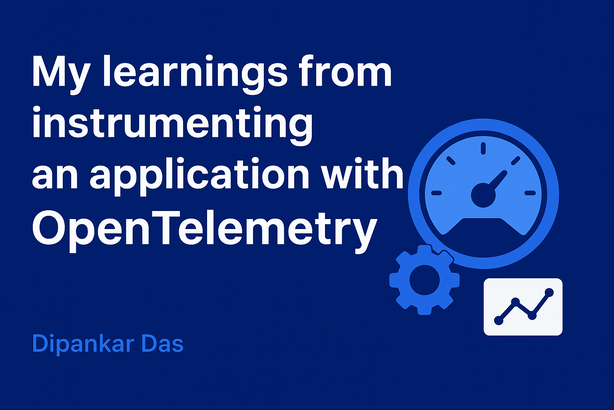
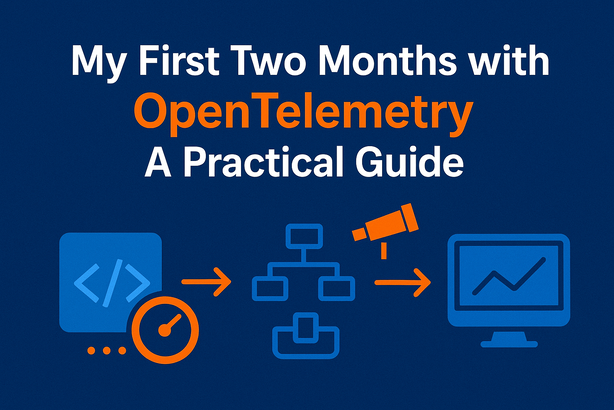
improved the blog post of otel

diff --git a/content/posts/blogs/otel.md b/content/posts/blogs/otel.md
@@ -1,8 +1,8 @@
 +++
-title = "My learnings from instrumenting an application with OpenTelemetry"
+title = "My First Two Months with OpenTelemetry: A Practical Guide"
 author = "Dipankar Das"
 date = 2025-11-07
-description = "It give guidelines and advice on why when and how to use OpenTelemetry to instrument your projects."
+description = "A developer's practical guide to instrumenting applications with OpenTelemetry, sharing key learnings on spans, context propagation, and sampling."
 cover = "img/blogs/otel-cover.png"
 tags = ["go", "otel", "troubleshooting", "debugging", "grafana", "prometheus"]
 [build]
@@ -10,124 +10,201 @@ tags = ["go", "otel", "troubleshooting", "debugging", "grafana", "prometheus"]
   render = 'always'
 +++
 
-## What exactly is OpenTelemetry?
+"Why is this request so slow?" "Where did the error originate?" "What's the actual path of a user request through our microservices?" If you've ever found yourself debugging a complex or distributed system, these questions are probably all too familiar. For the past two months, I've been diving deep into OpenTelemetry (OTEL), and it has fundamentally changed how I answer them.
 
-OpenTelemetry (often abbreviated as OTEL) is an open-source observability framework that provides a set of tools, APIs, and SDKs for collecting, processing, and exporting telemetry data from applications and services.
+This post isn't just a theoretical overview; it's a collection of my practical learnings and takeaways from instrumenting a real-world application. I'll cover the why, what, and how of using OpenTelemetry, so you can avoid some of the hurdles I encountered.
 
-It changes how we monitor our application with Observability data like Traces, Metrics and Logs (3 core pillars of observability) to help developers and operators understand the performance and behavior of their software systems.
+## Why Bother? The Payoff of Good Instrumentation
+Before we get into the technical details, let's talk about the motivation. What do you actually get in return for the effort of instrumenting your application? The answer is **clarity**.
 
-It has 2 main components which you need to take note of:
-1. Programming APIs and SDKs: OpenTelemetry provides language-specific APIs and SDKs (like Go, Java, Python, etc.) that developers can use to instrument their applications. These SDKs allow you to create and manage telemetry data, such as traces and metrics.
-2. Collectors and Exporters: OpenTelemetry includes a collector component that can receive telemetry data from instrumented applications. The collector can process and export this data to various backends, such as Promtheus, Jaeger, Tempo, Loki, etc.
+When your application is properly instrumented with traces, metrics, and logs, you can build powerful dashboards in tools like Grafana. This gives you a unified view of your system's health and behavior.
 
-the the collector is the main component in this as it manages the event comming from various instrumented applications perform some processing on them and export them to the desired backend. Thats it by this we get a unified way to collect and export telemetry data from different applications and services. only otel sdk is needed to be installed in the application and a single grpc/http endpoint to connect and you are ready to go. and all the main storage part is handled by the upstream backends like prometheus, jaeger, loki, etc.
+1.  **Deep Visibility with Traces**: Understand what's happening under the hood of your application. You can see which functions are called, how long they take, and where failures occur. A distributed trace can often make a complex stack trace much easier to follow.
+2.  **Correlated Traces and Logs**: One of the most powerful features is correlating traces with logs. With a single `trace_id`, you can instantly find all the logs associated with a specific request, even as it hops across multiple services. ![searching-traceId](/img/blogs/tracetolog001.png)
+3.  **Powerful Metrics**: Monitor key indicators of your application's health. Are requests per second dropping? Is the error rate for a specific service increasing? Are your background workers keeping up with the queue? Metrics help you answer these questions proactively.
+4.  **Insightful Dashboards**: You can create detailed admin panels and operational dashboards using only your OTEL data, providing instant insights without needing a separate frontend. Here’s an example of a dashboard showing application health:
+    ![](/img/blogs/tracetolog004.png)
 
-## what are the ways we can instrument an application with OpenTelemetry?
-1. Manual Instrumentation: This involves adding OpenTelemetry SDK calls directly into your application code. You can use the SDK to create spans, record metrics, and log events at specific points in your code. This method provides fine-grained control over what telemetry data is collected but requires more effort from developers. (I will not tell lies this is the most common way of instrumenting an application, and is actually fun but can be tedious at times)
-2. Automatic Instrumentation: Some OpenTelemetry SDKs provide automatic instrumentation capabilities. This means that the SDK can automatically instrument certain libraries and frameworks without requiring manual code changes. This is often done through instrumentation plugins or middleware that intercepts calls to popular libraries. This method is easier to implement but may not provide as much control over the collected data. (This is very easy to get going but may not cover all use cases, You also need to know how your application runs and whatare the system level tools it runs on like in python check if it rungs via WSGI/ASGI server or simple script, ....)
+## The Core Concepts: What is OpenTelemetry?
 
-> **Note**: If you are the owner/developer of the application you can go for manual instrumentation as you have full control over the codebase, but if you are working on a 3rd party application where you dont have access to the codebase automatic instrumentation is the way to go as you most likely will not be able to change the codebase. But Remember with automatic instrumentation it can sometimes make more resources than manual instrumentation as it instruments everything by default.
+OpenTelemetry (OTEL) is an open-source observability framework that provides a standardized way to collect, process, and export telemetry data (traces, metrics, and logs).
 
+It has two main parts:
+1.  **APIs and SDKs**: Language-specific libraries (for Go, Python, Java, etc.) that you use to generate telemetry data from your application.
+2.  **The Collector**: A central component that receives data from your instrumented applications. The collector can process this data (e.g., add attributes, filter, or batch) and export it to one or more backends like Jaeger, Prometheus, or Loki. Example configuration
+```yaml
+receivers:
+  # Receive traces and logs via OTLP (standard ports)
+  otlp:
+    protocols:
+      grpc:
+        endpoint: 0.0.0.0:4317
+      http:
+        endpoint: 0.0.0.0:4318
 
-## What you actually get in return so that you are motivated to instrument your application with OpenTelemetry?
-Yes you get the unified way to collect telemetry data from your application but what actual benefits you get from it.
-When you have all the 3 components working then we can create grafana dashboard with the datasources set to those backends.
+processors:
+  # Batch for efficient processing
+  batch:
+    timeout: 5s
+    send_batch_size: 512
 
-1. Now as you have added traces information you can understand what actually is happening under the hood of your application. what functions get called, time it takes even some times you don't even need stack trace as you can actually see the function calls into the span which failed (easier to follow along)
-2. Bonus with the first point of traces now you can even coorelate traces with your logs and by that when you want to get logs for any particular span (for now just think of span as a function call)
-3. With Metrics you can do something interesting like monitor some parts of your application like request per second, error rate of specific parts of your system, Get to know which backgrounder worker which has subscribed to a queue is failing or passing, are the events being properly loadbalanced among the workers, etc.
-4. You can even make a good enough admin dashboard without the need for additional frontend just your otel and your grafana setup is enough to give you insights about your application health. Example Admin dashboard ![](/img/blogs/tracetolog004.png)
+  # Memory limiter to prevent OOM
+  memory_limiter:
+    check_interval: 1s
+    limit_mib: 256
+    spike_limit_mib: 64
 
-## My takeaways and learnings from instrumenting an application with OpenTelemetry
+exporters:
+  # Export to stdout for local debugging
+  debug:
+    verbosity: detailed
+    sampling_initial: 10
+    sampling_thereafter: 50
 
-### What the is span and when to use them?
+  # Export traces to Jaeger
+  otlp/jaeger:
+    endpoint: jaeger:4317
+    tls:
+      insecure: true
 
-Spans are the building blocks of traces in OpenTelemetry. A span represents a single operation or unit of work within a trace. Each span has a start time and an end time, and it can contain additional metadata such as attributes, events, and status information.
+  # Export logs to Loki via OTLP
+  otlphttp/loki:
+    endpoint: http://loki:3100/otlp
+    tls:
+      insecure: true
 
-> **NOTE**: These are expensive resource so use them wisely.
-> Recommended way is to use it for api calls to external APIs/services like Database, cache, instead of tainting all the function call.
+  # Export metrics to Prometheus via Remote Write
+  prometheusremotewrite:
+    endpoint: http://prometheus:9090/api/v1/write
+    tls:
+      insecure: true
+    resource_to_telemetry_conversion:
+      enabled: true
 
-For Programming language like Go we would need to have context variabled passed along with the functions/method you need to add to the otel visibility then only you can work with creating addSpan things.
+extensions:
+  health_check:
+  zpages:
 
-Also our goal is to only add functions/methods to traces only if they are something significant otherwise too many spans will make your life harded to reack what is happening.
+service:
+  extensions: [health_check, zpages]
 
-Real Workload example of how does traces and logs correlate with the help of service_namespace in grafana
+  pipelines:
+    traces:
+      receivers: [otlp]
+      processors: [memory_limiter, batch]
+      exporters: [debug, otlp/jaeger]
 
-![correlation-traces-logs](/img/blogs/tracetolog002.png)
+    logs:
+      receivers: [otlp]
+      processors: [memory_limiter, batch]
+      exporters: [debug, otlphttp/loki]
 
-### Good Spans vs Bad Spans
-
-Instead of focusing on a hard number like 50, the key is to ensure your spans are **meaningful** and **manageable**.
-
-**Focus on Key Operations (The Good Spans):**
-- **External Boundaries:** A span for the inbound request to your service (the Root Span).
-- **Network Calls:** Spans for external HTTP requests, RPC calls (gRPC), and database queries.
-- **Messaging:** Spans for producing and consuming messages from queues/topics.
-- **Significant Internal Steps:** Spans for important, time-consuming business logic or internal function calls (e.g., `process_payment`, `generate_report`).
-
-**Avoid Excessive Spans (The Bad Spans):**
-- **Trivial or Repetitive Functions:** Creating a new span for every single getter/setter or a quick helper function inside a loop rapidly bloats your trace without adding useful context.
-- **High Cardinality in Names:** Span names should be generic (e.g., `GET /users`) not include IDs or dynamic values (e.g., `GET /users/123`). Use **span attributes** for unique identifiers.
-
-**Leverage Other Signals:**
-- For single points in time, like a state change or an exception, use a **Span Event** instead of creating a whole new span.
-- For verbose, general debugging, continue to use **Logs** and ensure they are correlated to the active `trace_id` and `span_id`.
-
-
-### Why we need Events for spans?
-In spans even though we have start time and end time but sometime we need to know what actually happened inside the span during its lifetime. For that we have events which can be added to spans to give more context about what happened during the span's execution.
-
-Also this feature can be useful when you want to log some important checkpoints inside a span without the need to create new spans for them.
-
-Example use case to lot what all write happened in a database without creating database write span for each write operation.
-![event-example](/img/blogs/tracetolog003.png)
-
-### Evential consistency
-Traces and spans in OpenTelemetry are designed to be eventually consistent. This means that the telemetry data collected by OpenTelemetry may not be immediately available for analysis or querying.
-
-
-### Propogate across services
-
-Most of the times used for event based or API based microservices where one service calls another service and you want to have the full trace of the request as it flows through multiple services.
-
-For those we have `TextMapPropagator` which helps in propagating the trace context across service boundaries. This allows you to maintain the trace context as requests move between different services, enabling end-to-end tracing of distributed systems. Mostly are stored as Headers in HTTP/gRPC calls. or for a message broker you can set a header/metadata field for the message/event with the trace context.
-
-```go
-type TextMapPropagator interface {
-
-	// Inject set cross-cutting concerns from the Context into the carrier.
-	Inject(ctx context.Context, carrier TextMapCarrier)
-
-	// Extract reads cross-cutting concerns from the carrier into a Context.
-	// Implementations may check if the carrier implements ValuesGetter,
-	// to support extraction of multiple values per key.
-	Extract(ctx context.Context, carrier TextMapCarrier) context.Context
-
-	// Fields returns the keys whose values are set with Inject.
-	Fields() []string
-}
+    metrics:
+      receivers: [otlp]
+      processors: [memory_limiter, batch]
+      exporters: [debug, prometheusremotewrite]
 ```
 
-> Using with the help of Headers is quite easy to implement and mostly available across message or api based communication.
+> Where the core pipelining happens under `service.pipelines.(traces|logs|metrics)`
 
-### Sampling strategies
-When instrumenting applications with OpenTelemetry, it's important to consider sampling strategies to manage the volume of telemetry data collected. Sampling helps reduce the amount of data sent to backends, which can help control costs and improve performance.
-There are several sampling strategies available in OpenTelemetry, including:
-1. **Head-based Sampling**: This strategy samples traces based on the initial part of the trace (the "head"). For example, you might choose to sample only a certain percentage of traces that start with specific attributes or conditions.
-2. **Tail-based Sampling**: This strategy samples traces based on their duration or other criteria. For example, you might choose to sample only traces that exceed a certain duration threshold.
+This architecture provides a unified layer for instrumentation. You only need to add the OTEL SDK to your application and point it to a collector. The collector then handles the complexity of sending data to your chosen storage backends.
 
-Choosing the right sampling strategy depends on your application's requirements, the volume of telemetry data generated, and the capabilities of your backend systems. It's important to strike a balance between collecting enough data for effective monitoring and analysis while avoiding excessive data volumes that can lead to increased costs and performance issues. For more details check [Official Sampling Documentation](https://opentelemetry.io/docs/concepts/sampling/)
+### What is a Span and When Should I Use It?
 
+Spans are the building blocks of a trace. A single span represents one unit of work, like an API call, a database query, or a function execution. It has a start time, an end time, and associated metadata like attributes and events.
 
-### Linking Spans
-Usecase I came accross was when I had to have a grouped backgroundjob processing event which has multiple independent events running concurrency and consumed by independent workers. Here I wanted to have a grouped view of all the spans created by those independent workers under a single parent span to have a better visibility of the whole grouped job processing. And tracking of what all jobs were part of that grouped job.
+> **Note**: Spans are not free. Creating too many of them can add performance overhead and make traces noisy and difficult to read.
 
-![linking-spans](/img/blogs/tracetolog005.png)
+My rule of thumb: **create spans for operations that have a meaningful duration or cross a system boundary.** Good candidates for spans include:
+-   External API calls (e.g., to a third-party service).
+-   Database queries.
+-   Publishing or consuming messages from a queue.
+-   Significant, business-critical function calls.
 
-## Conclusion
+In Go, this often means passing a `context.Context` variable through your function calls so you can create new spans that are correctly nested under their parent.
 
-Instrumenting an application with OpenTelemetry can provide significant benefits in terms of observability and monitoring. By following best practices for span creation, event logging, context propagation, and sampling strategies, you can effectively leverage OpenTelemetry to gain insights into your application's performance and behavior. However, it's important to carefully consider the design and implementation of your instrumentation to ensure that it meets your specific use cases and requirements.
+![Example of correlated traces and logs in Grafana](/img/blogs/tracetolog002.png)
 
-Every application has different observability needs, so it's essential to tailor your OpenTelemetry implementation accordingly. Regularly review and refine your instrumentation strategy to ensure it continues to provide value as your application evolves.
+### Good Spans vs. Bad Spans
+
+The goal is to create **meaningful** and **manageable** traces.
+
+**DO:**
+-   **Trace Boundaries**: Create a root span for the initial inbound request to your service.
+-   **Trace Network Calls**: Wrap external HTTP requests, RPC calls, and database queries in spans.
+-   **Use Generic Names**: Name your spans with low-cardinality, generic names (e.g., `HTTP GET /users/{id}`).
+-   **Use Attributes for Details**: Store dynamic or high-cardinality values like user IDs or request parameters as **span attributes**.
+
+**DON'T:**
+-   **Trace Trivial Functions**: Avoid creating spans for simple getters, setters, or helper functions inside a tight loop. This adds noise, not clarity.
+-   **Use Dynamic Span Names**: A span name like `GET /users/123` creates a new "class" of span for every user, which can overwhelm your observability backend.
+
+### When to Use Events Instead of Spans
+
+Sometimes, you want to mark a point-in-time occurrence within a span's lifecycle without creating a whole new span. For this, use **Span Events**.
+
+Events are perfect for logging important checkpoints. For example, instead of creating a new span for every write in a batch database operation, you could have a single `db:batch_write` span and add an event for each record being written.
+
+![Example of using events within a span](/img/blogs/tracetolog003.png)
+
+## The "How": Instrumenting Your Application
+
+There are two primary ways to instrument an application.
+
+1.  **Manual Instrumentation**: You add OTEL SDK calls directly into your code. This gives you maximum control but requires more upfront effort. If you own the codebase, this is often the best approach for creating clean, meaningful telemetry.
+2.  **Automatic Instrumentation**: Some SDKs can automatically instrument popular libraries and frameworks without code changes. This is great for getting started quickly or for instrumenting third-party applications where you can't modify the source. However, it can sometimes generate more data than you need.
+
+### Propagating Context Across Services
+
+In a microservices architecture, you need a way to connect the spans from different services into a single, end-to-end trace. This is handled by **Context Propagation**.
+
+The `TextMapPropagator` is a tool that injects trace context (like the `trace_id`) into and extracts it from a carrier. For HTTP services, the carrier is usually the request headers. For message queues, it could be the message metadata.
+
+Here is a conceptual example of how it works in a client-server interaction:
+
+```go
+// Client Side: Injecting the context into HTTP headers
+req, _ := http.NewRequest("GET", "http://example.com", nil)
+// The propagator adds headers like "traceparent" to the request
+propagator.Inject(ctx, propagation.HeaderCarrier(req.Header)) 
+client.Do(req)
+
+// Server Side: Extracting the context from headers
+// The server reads headers from the incoming request
+ctx := propagator.Extract(r.Context(), propagation.HeaderCarrier(r.Header))
+// Now, any spans created will be part of the original trace
+```
+
+This mechanism is what allows you to see the full journey of a request across service boundaries.
+
+### Managing Data Volume with Sampling
+
+Instrumenting every single request can generate a massive amount of data and become expensive. **Sampling** is the solution. It allows you to control the volume of telemetry data you send to your backend.
+
+There are two main strategies:
+1.  **Head-based Sampling**: The decision to sample a trace is made at the very beginning (the "head"). For example, you might decide to keep only 10% of all traces. It's simple and efficient but means you might discard traces that later turn out to be interesting (e.g., ones that contain an error).
+2.  **Tail-based Sampling**: The decision is made after the trace has been completed (at the "tail"). This allows you to make more intelligent decisions, such as keeping all traces that contain an error or are longer than a certain duration. This is more powerful but requires a collector setup capable of buffering and analyzing traces.
+
+For more details, check the [Official Sampling Documentation](https://opentelemetry.io/docs/concepts/sampling/).
+
+### Linking Spans for Complex Workflows
+
+What if you have a workflow where one event triggers multiple independent background jobs? The jobs aren't children of the initial span in a traditional sense, but they are related. For this, you can use **Span Links**.
+
+I used this for a background job processing system. A single "group job" event would be consumed by multiple workers concurrently. By linking the spans from each worker back to the original parent span, I could create a unified view of the entire distributed operation.
+
+![Example of linking spans for a grouped job](/img/blogs/tracetolog005.png)
+
+## Conclusion: My Key Takeaways
+
+Instrumenting an application with OpenTelemetry is a journey, but the payoff in observability is immense. It's more than just a tool; it's a shift in how you think about and monitor your systems.
+
+Here are my biggest takeaways from the last two months:
+-   **Start with the "Why"**: Understand what you want to observe before you write a single line of instrumentation.
+-   **Spans are for Boundaries**: Use spans for network, database, or significant business logic boundaries. Use events for everything else.
+-   **Context is King**: Master context propagation. It's the key to unlocking true distributed tracing.
+-   **Sample Intelligently**: Don't drown in data. Start with head-based sampling and explore tail-based sampling as your needs evolve.
+
+Every application has different observability needs, so tailor your implementation accordingly. Start small, iterate, and continuously refine your strategy. The clarity you'll gain into your application's behavior is well worth the effort.
 
 Thank you for reading!

diff --git a/content/posts/blogs.md b/content/posts/blogs.md
@@ -9,8 +9,8 @@ cover = "img/cover-blogs.png"
 
 # Tech Blogs
 
-## My learnings from instrumenting an application with OpenTelemetry
-> It give guidelines and advice on why when and how to use OpenTelemetry to instrument your projects.
+## My First Two Months with OpenTelemetry: A Practical Guide
+> A developer's practical guide to instrumenting applications with OpenTelemetry, sharing key learnings on spans, context propagation, and sampling.
 
 {{< image src="/img/blogs/otel-cover.png" alt="otel-cover" style="border-radius: 8px;" >}}
 [Blog Link]({{< baseurl >}}posts/blogs/otel)
